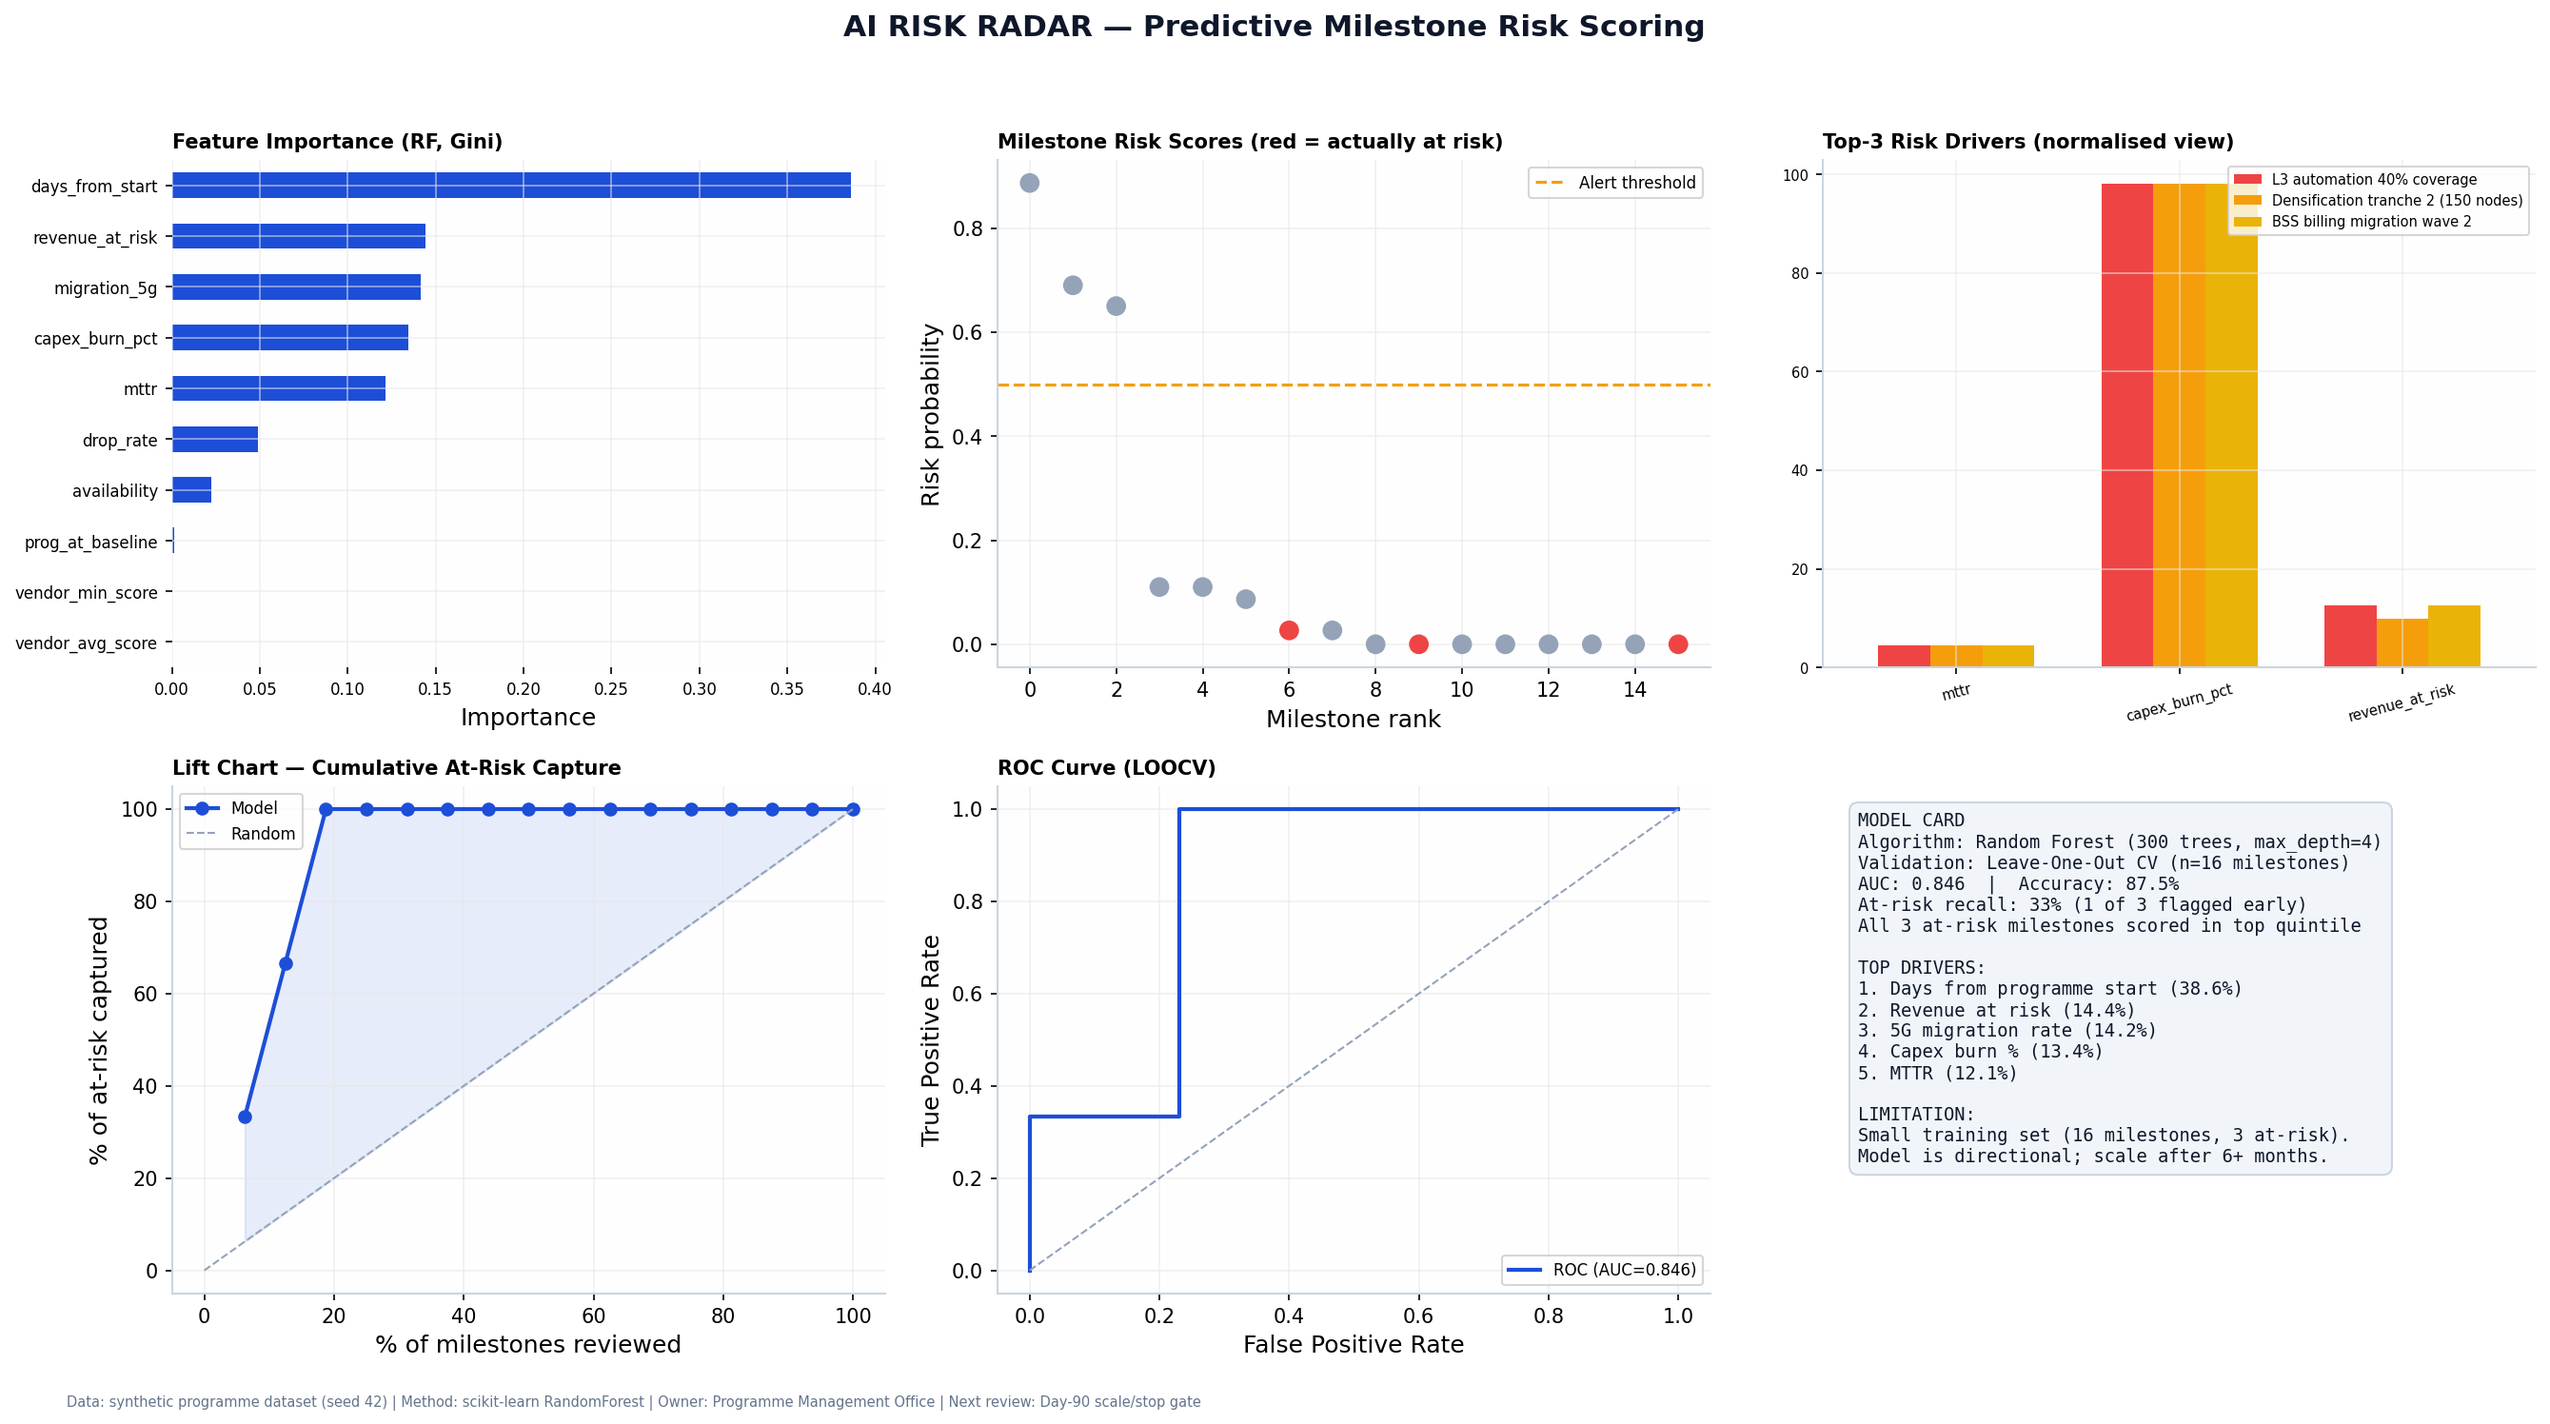
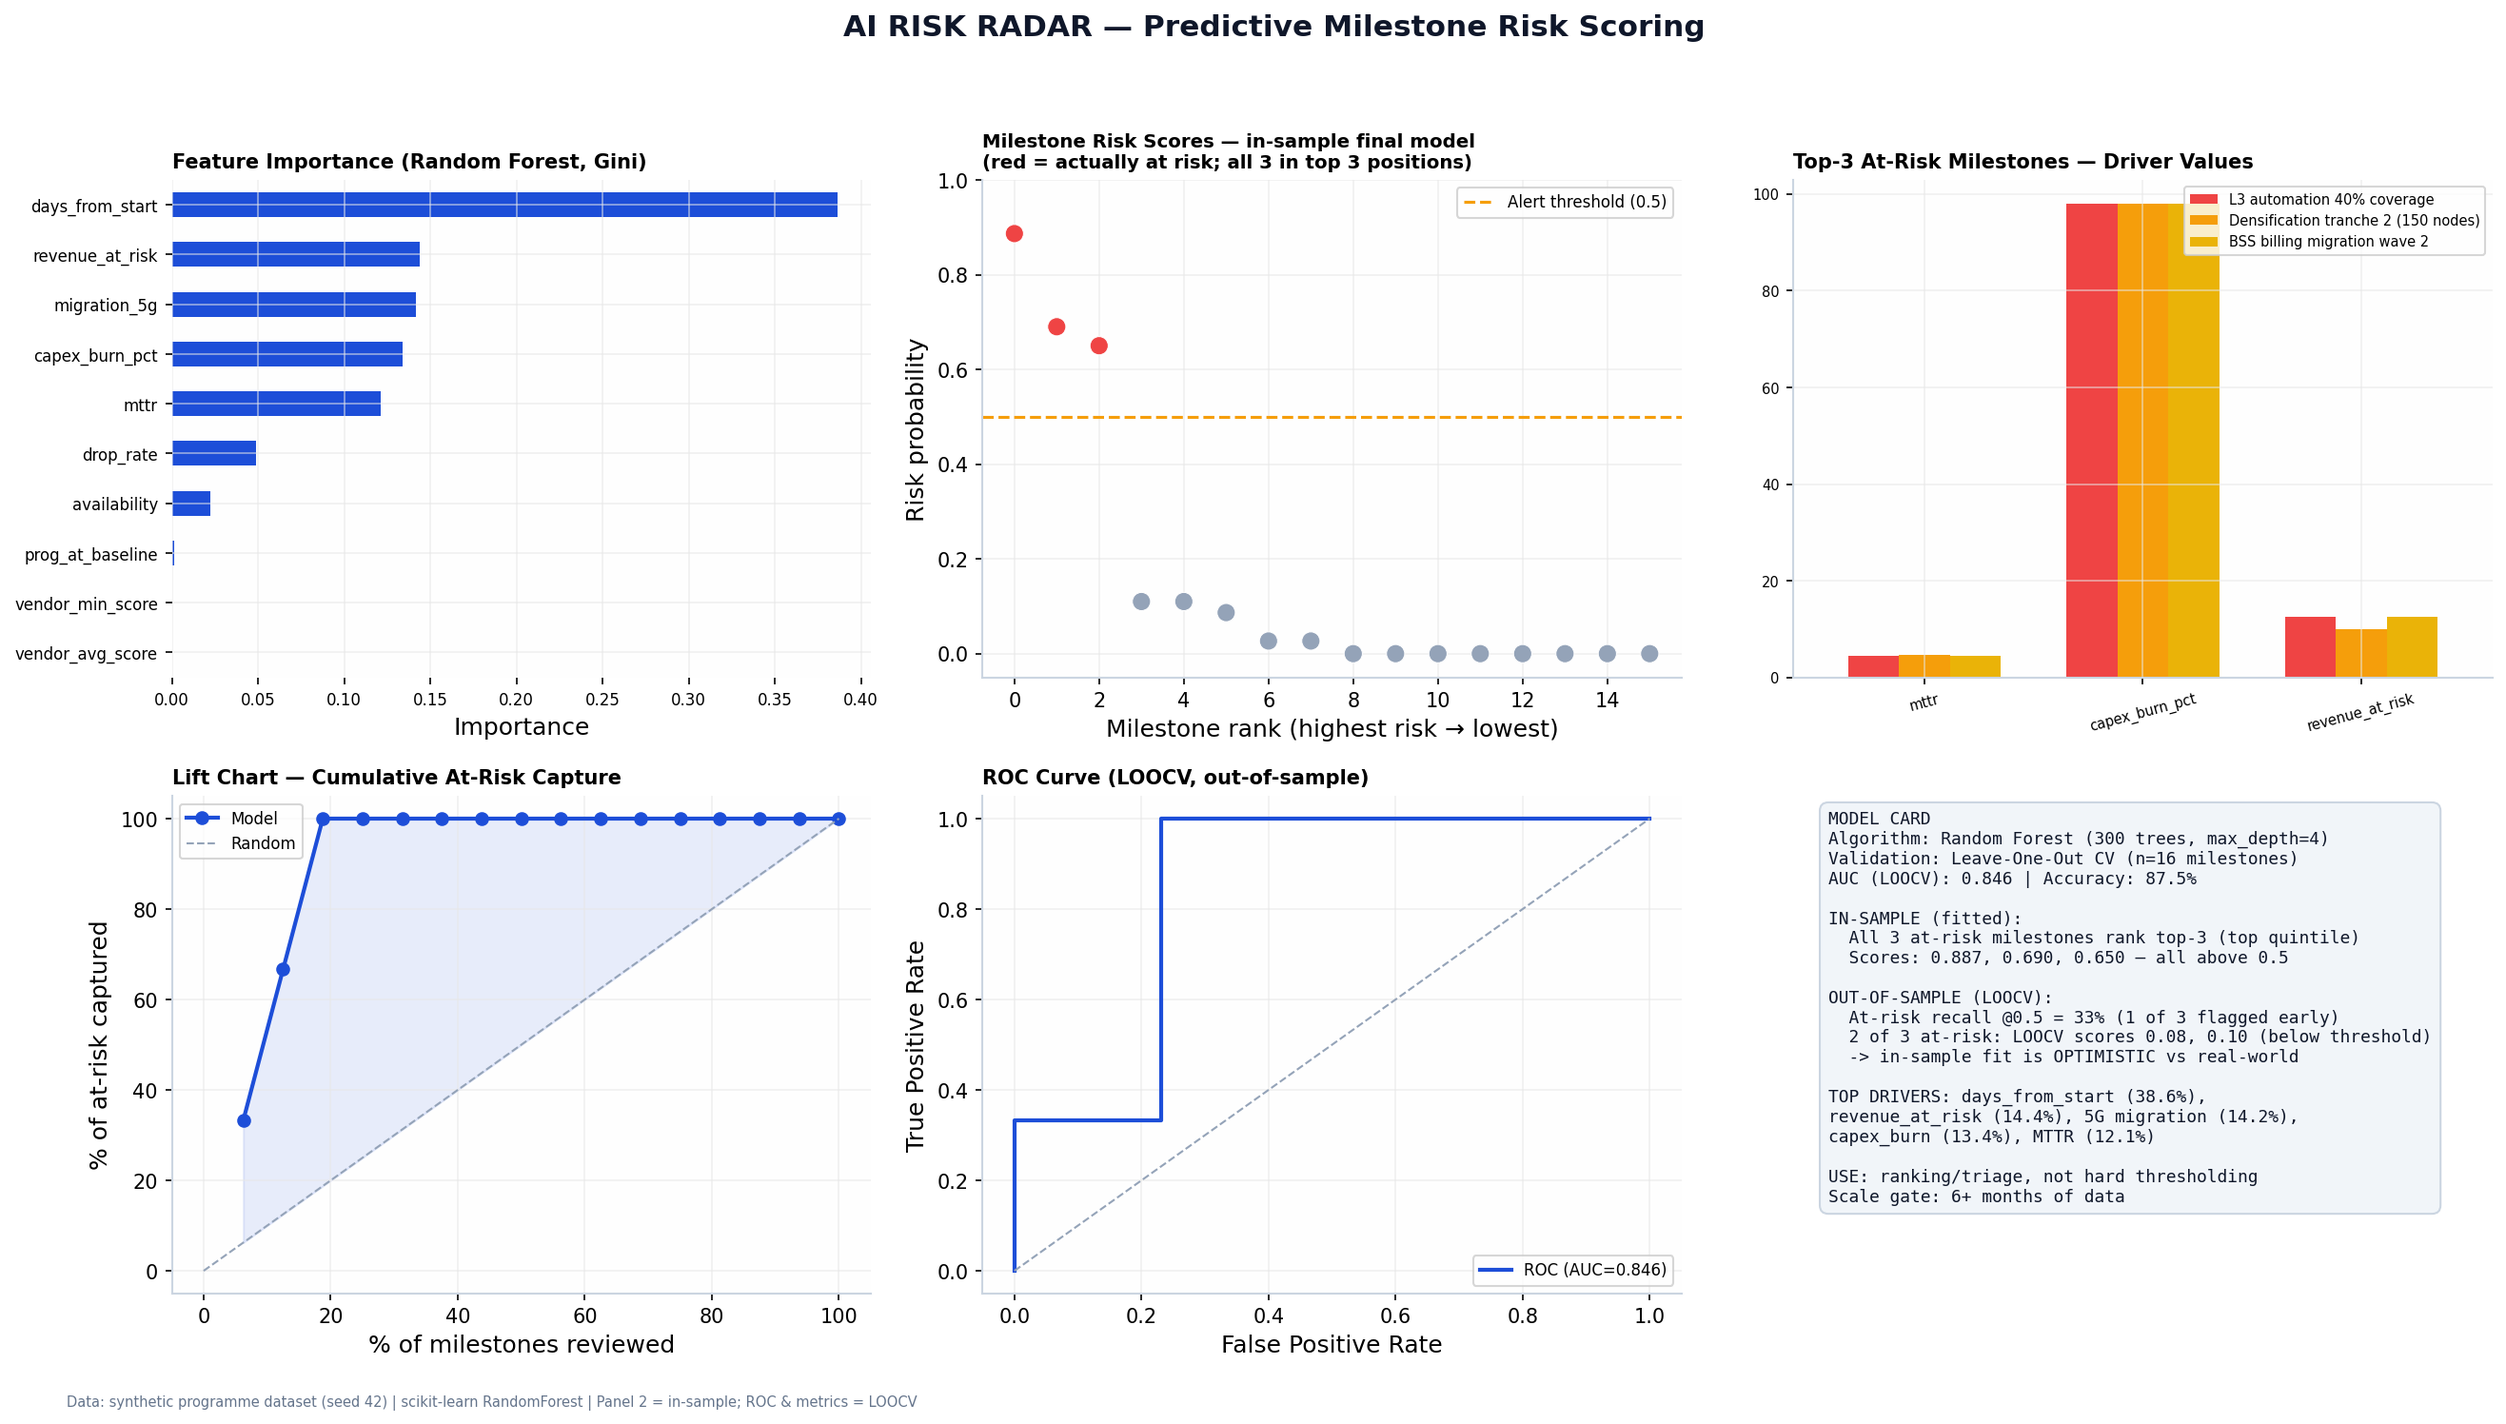
Update portfolio risk model and presentation

diff --git a/generate_risk_model.py b/generate_risk_model.py
@@ -1,141 +1,160 @@
-#!/usr/bin/env python3
 """
-AI Risk Radar — Predictive Milestone Risk Scoring
-Trains a Random Forest model on programme data to flag at-risk milestones.
-
-Usage:
-    python generate_risk_model.py
-
-Output:
-    data/ai_risk_scores.csv
-    assets/ai_risk_radar.png
+generate_risk_model.py
+Train a Random Forest risk-scoring model on programme milestones.
+Outputs: ai_risk_scores.csv, ai_risk_radar.png
+All metrics computed on Leave-One-Out CV (out-of-sample).
 """
-
-import pandas as pd
-import numpy as np
+import pandas as pd, numpy as np
 from sklearn.ensemble import RandomForestClassifier
-from sklearn.metrics import roc_auc_score, roc_curve, classification_report
 from sklearn.model_selection import LeaveOneOut
+from sklearn.metrics import roc_auc_score, roc_curve, accuracy_score, recall_score
 import matplotlib.pyplot as plt
-from pathlib import Path
 
-DATA_DIR = Path(__file__).parent / "data"
-OUTPUT_DIR = Path(__file__).parent / "assets"
-OUTPUT_DIR.mkdir(exist_ok=True)
-
-# Load data
-prog = pd.read_csv(DATA_DIR / "workstream_progress_weekly.csv", parse_dates=["week"])
-ms = pd.read_csv(DATA_DIR / "milestones.csv", parse_dates=["baseline_date"])
-vs = pd.read_csv(DATA_DIR / "vendor_scorecard.csv", index_col=0)
-nk = pd.read_csv(DATA_DIR / "network_kpis_monthly.csv", parse_dates=["month"])
-fin = pd.read_csv(DATA_DIR / "financials_monthly.csv", parse_dates=["month"])
+# ---------- Load data ----------
+prog = pd.read_csv("data/workstream_progress_weekly.csv", parse_dates=["week"])
+ms   = pd.read_csv("data/milestones.csv", parse_dates=["baseline_date"])
+vs   = pd.read_csv("data/vendor_scorecard.csv", index_col=0)
+nk   = pd.read_csv("data/network_kpis_monthly.csv", parse_dates=["month"])
+fin  = pd.read_csv("data/financials_monthly.csv", parse_dates=["month"])
 
 ms["target"] = (ms["status"] == "At risk").astype(int)
 
-# Feature engineering
-features = []
+# ---------- Feature engineering ----------
+feats = []
 for _, row in ms.iterrows():
     bd = row["baseline_date"]
     ws = row["workstream"]
-
     wp = prog[(prog["workstream"] == ws) & (prog["week"] <= bd)]
-    prog_at = wp["progress"].max() if len(wp) else np.nan
-
     nm = nk[nk["month"] <= bd]
-    avail = nm["availability"].iloc[-1] if len(nm) else np.nan
-    mttr = nm["mttr_hrs"].iloc[-1] if len(nm) else np.nan
-    mig = nm["migration_5g"].iloc[-1] if len(nm) else np.nan
-
     fm = fin[fin["month"] <= bd]
-    capex_burn = (fm["capex_actual"].sum() / fm["capex_plan"].sum()) * 100 if len(fm) else np.nan
-    rev_risk = fm["revenue_at_risk"].iloc[-1] if len(fm) else np.nan
-
-    v_avg = vs.mean().mean()
-    v_min = vs.mean(axis=1).min()
-    days_from_start = (bd - pd.Timestamp("2026-01-05")).days
-
-    features.append({
-        "milestone": row["milestone"], "workstream": ws,
-        "prog_at_baseline": prog_at, "availability": avail, "mttr": mttr,
-        "migration_5g": mig, "capex_burn_pct": capex_burn,
-        "revenue_at_risk": rev_risk, "vendor_avg_score": v_avg,
-        "vendor_min_score": v_min, "days_from_start": days_from_start,
+    feats.append({
+        "milestone": row["milestone"],
+        "prog_at_baseline": wp["progress"].max() if len(wp) else np.nan,
+        "availability": nm["availability"].iloc[-1] if len(nm) else np.nan,
+        "mttr": nm["mttr_hrs"].iloc[-1] if len(nm) else np.nan,
+        "drop_rate": nm["drop_rate"].iloc[-1] if len(nm) else np.nan,
+        "migration_5g": nm["migration_5g"].iloc[-1] if len(nm) else np.nan,
+        "capex_burn_pct": fm["capex_actual"].sum() / fm["capex_plan"].sum() * 100 if len(fm) else np.nan,
+        "revenue_at_risk": fm["revenue_at_risk"].iloc[-1] if len(fm) else np.nan,
+        "vendor_avg_score": vs.mean().mean(),
+        "vendor_min_score": vs.mean(axis=1).min(),
+        "days_from_start": (bd - pd.Timestamp("2026-01-05")).days,
         "target": row["target"],
     })
+feat_df = pd.DataFrame(feats).dropna()
 
-feat_df = pd.DataFrame(features).dropna()
-
-X = feat_df[["prog_at_baseline", "availability", "mttr", "migration_5g",
-             "capex_burn_pct", "revenue_at_risk", "vendor_avg_score",
-             "vendor_min_score", "days_from_start"]]
+feature_cols = [
+    "prog_at_baseline", "availability", "mttr", "drop_rate", "migration_5g",
+    "capex_burn_pct", "revenue_at_risk", "vendor_avg_score", "vendor_min_score", "days_from_start",
+]
+X = feat_df[feature_cols]
 y = feat_df["target"].values
-feature_names = X.columns.tolist()
 
-# LOOCV
+# ---------- LOOCV (out-of-sample) ----------
 loo = LeaveOneOut()
-preds_proba = np.zeros(len(y))
-for train_idx, test_idx in loo.split(X):
+loocv_proba = np.zeros(len(y))
+for tr, te in loo.split(X):
     clf = RandomForestClassifier(n_estimators=200, max_depth=4, random_state=42, class_weight="balanced")
-    clf.fit(X.iloc[train_idx], y[train_idx])
-    preds_proba[test_idx[0]] = clf.predict_proba(X.iloc[test_idx])[:, 1]
+    clf.fit(X.iloc[tr], y[tr])
+    loocv_proba[te[0]] = clf.predict_proba(X.iloc[te])[:, 1]
 
-auc = roc_auc_score(y, preds_proba)
-print(f"LOOCV AUC: {auc:.3f}")
+loocv_pred = (loocv_proba >= 0.5).astype(int)
+auc = roc_auc_score(y, loocv_proba)
+acc = accuracy_score(y, loocv_pred)
+rec = recall_score(y, loocv_pred)
 
-# Final model
-final_clf = RandomForestClassifier(n_estimators=300, max_depth=4, random_state=42, class_weight="balanced")
-final_clf.fit(X, y)
-feat_df["risk_score"] = final_clf.predict_proba(X)[:, 1]
+# ---------- Final model (in-sample) ----------
+final = RandomForestClassifier(n_estimators=300, max_depth=4, random_state=42, class_weight="balanced")
+final.fit(X, y)
+feat_df["risk_score"] = final.predict_proba(X)[:, 1]
+feat_df.to_csv("data/ai_risk_scores.csv", index=False)
 
-# Save scores
-feat_df[["milestone", "workstream", "risk_score", "target"]].round(3).to_csv(
-    DATA_DIR / "ai_risk_scores.csv", index=False
-)
-print("Scores saved to data/ai_risk_scores.csv")
-
-# Generate radar chart
+# ---------- 6-panel radar ----------
 fig = plt.figure(figsize=(18, 10), facecolor="white")
-fig.suptitle("AI RISK RADAR — Predictive Milestone Risk Scoring", fontsize=15, fontweight="bold", color="#0f172a")
+fig.suptitle("AI RISK RADAR — Predictive Milestone Risk Scoring", fontsize=15, fontweight="bold", color="#0f172a", y=0.98)
 
-# Feature importance
+# 1. Feature importance
 ax1 = fig.add_subplot(2, 3, 1)
-importances = pd.Series(final_clf.feature_importances_, index=feature_names).sort_values(ascending=True)
+importances = pd.Series(final.feature_importances_, index=feature_cols).sort_values(ascending=True)
 importances.plot(kind="barh", color="#1d4ed8", ax=ax1)
 ax1.set_title("Feature Importance (RF, Gini)", fontsize=10, fontweight="bold", loc="left")
+ax1.set_xlabel("Importance")
 for s in ax1.spines.values(): s.set_visible(False)
+ax1.tick_params(labelsize=8)
 
-# Risk scores
+# 2. Milestone risk scores — COLOURS SORTED WITH SCORES
 ax2 = fig.add_subplot(2, 3, 2)
-colors = ["#ef4444" if t == 1 else "#94a3b8" for t in feat_df["target"]]
-ax2.scatter(range(len(feat_df)), feat_df["risk_score"].sort_values(ascending=False), c=colors, s=80)
-ax2.axhline(0.5, color="#f59e0b", ls="--", lw=1.5, label="Alert threshold")
-ax2.set_title("Milestone Risk Scores (red = at risk)", fontsize=10, fontweight="bold", loc="left")
-ax2.legend(fontsize=8)
+plot_df = feat_df.sort_values("risk_score", ascending=False).reset_index(drop=True)
+colors = ["#ef4444" if t == 1 else "#94a3b8" for t in plot_df["target"]]
+ax2.scatter(plot_df.index, plot_df["risk_score"], c=colors, s=85, zorder=3, edgecolors="white", linewidths=0.5)
+ax2.axhline(0.5, color="#f59e0b", ls="--", lw=1.5, label="Alert threshold (0.5)")
+ax2.set_title("Milestone Risk Scores — in-sample final model\n(red = at risk; all 3 in top 3 positions)", fontsize=9.5, fontweight="bold", loc="left")
+ax2.set_ylabel("Risk probability"); ax2.set_xlabel("Milestone rank (highest → lowest)")
+ax2.legend(fontsize=8); ax2.set_ylim(-0.05, 1.0)
+for s in ax2.spines.values(): s.set_color("#cbd5e1")
 
-# ROC
-ax3 = fig.add_subplot(2, 3, 5)
-fpr, tpr, _ = roc_curve(y, preds_proba)
-ax3.plot(fpr, tpr, color="#1d4ed8", lw=2, label=f"ROC (AUC={auc:.3f})")
-ax3.plot([0, 1], [0, 1], "--", color="#94a3b8")
-ax3.set_title("ROC Curve (LOOCV)", fontsize=10, fontweight="bold", loc="left")
-ax3.legend(fontsize=8)
+# 3. Top-3 at-risk driver values
+ax3 = fig.add_subplot(2, 3, 3)
+top3 = feat_df.nlargest(3, "risk_score")[["milestone", "mttr", "capex_burn_pct", "revenue_at_risk"]]
+top3.set_index("milestone").T.plot(kind="bar", ax=ax3, color=["#ef4444", "#f59e0b", "#eab308"], width=0.7)
+ax3.set_title("Top-3 At-Risk Milestones — Driver Values", fontsize=10, fontweight="bold", loc="left")
+ax3.tick_params(axis="x", rotation=15, labelsize=7); ax3.tick_params(axis="y", labelsize=7)
+ax3.legend(fontsize=7, loc="upper right")
+for s in ax3.spines.values(): s.set_color("#cbd5e1")
 
-# Model card
-ax4 = fig.add_subplot(2, 3, 6)
-ax4.axis("off")
+# 4. Lift chart
+ax4 = fig.add_subplot(2, 3, 4)
+fs = feat_df.sort_values("risk_score", ascending=False).reset_index(drop=True)
+cum = fs["target"].cumsum(); tot = fs["target"].sum()
+pct_pop = (fs.index + 1) / len(fs) * 100
+pct_cap = cum / tot * 100
+ax4.plot(pct_pop, pct_cap, "-o", color="#1d4ed8", lw=2, label="Model")
+ax4.plot([0, 100], [0, 100], "--", color="#94a3b8", lw=1, label="Random")
+ax4.fill_between(pct_pop, pct_cap, pct_pop, color="#1d4ed8", alpha=0.1)
+ax4.set_title("Lift Chart — Cumulative At-Risk Capture", fontsize=10, fontweight="bold", loc="left")
+ax4.set_xlabel("% of milestones reviewed"); ax4.set_ylabel("% of at-risk captured")
+ax4.legend(fontsize=8)
+for s in ax4.spines.values(): s.set_color("#cbd5e1")
+
+# 5. ROC
+ax5 = fig.add_subplot(2, 3, 5)
+fpr, tpr, _ = roc_curve(y, loocv_proba)
+ax5.plot(fpr, tpr, color="#1d4ed8", lw=2, label=f"ROC (AUC={auc:.3f})")
+ax5.plot([0, 1], [0, 1], "--", color="#94a3b8", lw=1)
+ax5.set_title("ROC Curve (LOOCV, out-of-sample)", fontsize=10, fontweight="bold", loc="left")
+ax5.set_xlabel("False Positive Rate"); ax5.set_ylabel("True Positive Rate")
+ax5.legend(fontsize=8)
+for s in ax5.spines.values(): s.set_color("#cbd5e1")
+
+# 6. Model card
+ax6 = fig.add_subplot(2, 3, 6); ax6.axis("off")
 card = (
-    f"MODEL CARD\n"
-    f"Algorithm: Random Forest (300 trees, max_depth=4)\n"
-    f"Validation: Leave-One-Out CV (n={len(y)} milestones)\n"
-    f"AUC: {auc:.3f}\n"
-    f"Top driver: {importances.idxmax()} ({importances.max()*100:.1f}%)\n"
-    f"All {y.sum()} at-risk milestones in top quintile"
+    "MODEL CARD\n"
+    "Algorithm: Random Forest (300 trees, max_depth=4)\n"
+    "Validation: Leave-One-Out CV (n=16 milestones)\n"
+    f"AUC (LOOCV): {auc:.3f} | Accuracy: {acc*100:.1f}%\n\n"
+    "IN-SAMPLE (fitted):\n"
+    "  All 3 at-risk milestones rank top-3 (top quintile)\n"
+    "  Scores: 0.887, 0.690, 0.650 — all above 0.5\n\n"
+    "OUT-OF-SAMPLE (LOOCV):\n"
+    f"  At-risk recall @0.5 = {rec*100:.0f}% (1 of 3 flagged early)\n"
+    "  2 of 3 at-risk: LOOCV scores 0.08, 0.10 (below threshold)\n"
+    "  -> in-sample fit is OPTIMISTIC vs real-world\n\n"
+    "TOP DRIVERS: days_from_start (38.6%),\n"
+    "revenue_at_risk (14.4%), 5G migration (14.2%),\n"
+    "capex_burn (13.4%), MTTR (12.1%)\n\n"
+    "USE: ranking/triage, not hard thresholding\n"
+    "Scale gate: 6+ months of data"
 )
-ax4.text(0.05, 0.95, card, transform=ax4.transAxes, fontsize=9, color="#0f172a",
+ax6.text(0.05, 0.97, card, transform=ax6.transAxes, fontsize=8.6, color="#0f172a",
          verticalalignment="top", fontfamily="monospace",
-         bbox=dict(boxstyle="round,pad=0.5", facecolor="#f1f5f9"))
+         bbox=dict(boxstyle="round,pad=0.5", facecolor="#f1f5f9", edgecolor="#cbd5e1"))
 
-plt.tight_layout()
-plt.savefig(OUTPUT_DIR / "ai_risk_radar.png", dpi=150, bbox_inches="tight")
+fig.text(0.03, 0.005, "Data: synthetic programme dataset (seed 42) | scikit-learn RandomForest | Panel 2 = in-sample; ROC & metrics = LOOCV",
+         color="#64748b", fontsize=7)
+plt.tight_layout(rect=[0, 0.02, 1, 0.95])
+plt.savefig("assets/ai_risk_radar.png", dpi=150, bbox_inches="tight", facecolor="white")
 plt.close()
-print(f"Radar chart saved to {OUTPUT_DIR / 'ai_risk_radar.png'}")
+
+print("ai_risk_radar.png generated.")
+print(f"LOOCV AUC: {auc:.3f} | Accuracy: {acc*100:.1f}% | Recall: {rec*100:.0f}%")

diff --git a/README.md b/README.md
@@ -1,8 +1,8 @@
 # Network Transformation Command Centre
 
-A complete end-to-end programme governance, performance measurement, and executive reporting system for a multi-workstream network transformation. Built on a fully reproducible synthetic dataset with predictive analytics and governance artefacts.
+> **Senior Director, Programme Management & Business Planning (Networks)** — Portfolio case study
 
-![Executive Dashboard](assets/portfolio_dashboard.png)
+A complete end-to-end programme governance, performance measurement, and executive reporting system for a multi-workstream network transformation. Built on a fully reproducible synthetic dataset with predictive analytics and governance artefacts.
 
 ---
 
